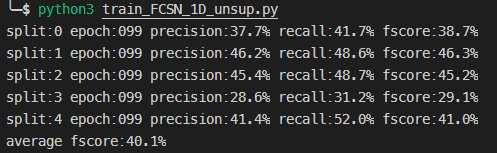
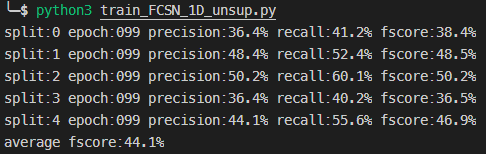
revise README.md and use key frame score as 0/1 vector

diff --git a/train_FCSN_1D_unsup.py b/train_FCSN_1D_unsup.py
@@ -13,7 +13,7 @@ import eval_tools
 # configure training record
 #writer = SummaryWriter()
 # load training and testing dataset
-train_loader_list,test_dataset_list,data_file = get_loader("datasets/fcsn_summe.h5", "1D", 5)
+train_loader_list,test_dataset_list,data_file = get_loader("datasets/fcsn_tvsum.h5", "1D", 5)
 # device use for training and testing
 device = torch.device("cuda:0" if torch.cuda.is_available() else "cpu")
 # number of epoch to train
@@ -39,11 +39,12 @@ for i in range(len(train_loader_list)):
             # zero the parameter gradients
             optimizer.zero_grad()
 
-            outputs_select_reconstruct,mask,_ = model(feature) # output shape [5,1024,320],[5,1,320]
+            outputs_reconstruct,mask,_ = model(feature) # output shape [5,1024,320],[5,1,320]
 
             # reconst. loss改成分批再做平均
             feature_select = feature*mask # [5,1024,320]
-            feature_diff_1 = torch.sum((feature_select-outputs_select_reconstruct)**2, dim=1) # [5,320]
+            outputs_reconstruct_select = outputs_reconstruct*mask # [5,1024,320]
+            feature_diff_1 = torch.sum((feature_select-outputs_reconstruct_select)**2, dim=1) # [5,320]
             feature_diff_1 = torch.sum(feature_diff_1, dim=1) # [5]
 
             mask_sum = torch.sum(mask, dim=2) # [5,1]
@@ -53,15 +54,15 @@ for i in range(len(train_loader_list)):
             
 
             # diversity loss
-            batch_size, feat_size, frames = outputs_select_reconstruct.shape
+            batch_size, feat_size, frames = outputs_reconstruct.shape
 
-            outputs_select_reconstruct_norm = torch.norm(outputs_select_reconstruct, p=2, dim=1, keepdim=True)
+            outputs_reconstruct_norm = torch.norm(outputs_reconstruct, p=2, dim=1, keepdim=True)
 
-            normalized_outputs_select_reconstruct = outputs_select_reconstruct/outputs_select_reconstruct_norm # [5,1024,320]
+            normalized_outputs_reconstruct = outputs_reconstruct/outputs_reconstruct_norm # [5,1024,320]
 
-            normalized_outputs_select_reconstruct_reshape = outputs_select_reconstruct.permute(0, 2, 1) # [5,320,1024]
+            normalized_outputs_reconstruct_reshape = normalized_outputs_reconstruct.permute(0, 2, 1) # [5,320,1024]
 
-            similarity_matrix = torch.bmm(normalized_outputs_select_reconstruct_reshape, normalized_outputs_select_reconstruct) # [5, 320, 320]
+            similarity_matrix = torch.bmm(normalized_outputs_reconstruct_reshape, normalized_outputs_reconstruct) # [5, 320, 320]
 
             mask_trans = mask.permute(0,2,1) # [5,320,1]
             mask_matrix = torch.bmm(mask_trans, mask) # [5,320,320] 
@@ -69,17 +70,23 @@ for i in range(len(train_loader_list)):
             similarity_matrix_filtered = similarity_matrix*mask_matrix # [5,320,320]
 
             diversity_loss = 0
+            acc_batch_size = 0
             for j in range(batch_size):
                 batch_similarity_matrix_filtered = similarity_matrix_filtered[j,:,:] # [320,320]
                 batch_mask = mask[j,:,:] # [1, 320]
                 if batch_mask.sum() < 2:
-                    print("select less than 2 frames")
-                    diversity_loss = 0
-                    break # only reconstruct_loss in this batch update
-                batch_diversity_loss = (batch_similarity_matrix_filtered.sum()-batch_similarity_matrix_filtered.trace())/(batch_mask.sum()*(batch_mask.sum()-1))
+                    #print("select less than 2 frames")
+                    batch_diversity_loss = 0
+                else:
+                    batch_diversity_loss = (batch_similarity_matrix_filtered.sum()-batch_similarity_matrix_filtered.trace())/(batch_mask.sum()*(batch_mask.sum()-1))
+                    acc_batch_size += 1
+
                 diversity_loss += batch_diversity_loss
 
-            diversity_loss /= batch_size
+            if acc_batch_size>0:
+                diversity_loss /= acc_batch_size
+            else:
+                diversity_loss = 0
 
             total_loss = reconstruct_loss + diversity_loss
             total_loss.backward()
@@ -91,11 +98,9 @@ for i in range(len(train_loader_list)):
             eval_res_avg = [] # for all testing video results
             for feature,label,index in test_dataset_list[i]: # index has been +1 in dataloader.py
                 feature = feature.view(1,1024,-1).to(device) # [1024,320] -> [1,1024,320]
-                pred_score = model(feature)[2].view(-1,320) # [1,2,320] -> [2,320]
                 # we only want key frame prob. -> [1]
-                pred_score = torch.softmax(pred_score, dim=0)[1] # [320]
+                pred_score = model(feature)[1].view(320) # [1,1,320] -> [320]
                 
-
                 video_name = "video_{}".format(index)
                 video_info = data_file[video_name]
                 # select key shots by video_info and pred_score
@@ -103,8 +108,8 @@ for i in range(len(train_loader_list)):
                 _, _, pred_summary = eval_tools.select_keyshots(video_info, pred_score)
                 true_summary_arr = video_info['user_summary'][()] # shape (n_users,N), summary from some users, each row is a binary vector
                 eval_res = [eval_tools.eval_metrics(pred_summary, true_summary) for true_summary in true_summary_arr] # shape [n_user,3],3 for[precision, recall, fscore]
-                #eval_res = np.mean(eval_res, axis=0).tolist()  # for tvsum
-                eval_res = np.max(eval_res, axis=0).tolist()    # for summe
+                eval_res = np.mean(eval_res, axis=0).tolist()  # for tvsum
+                #eval_res = np.max(eval_res, axis=0).tolist()    # for summe
                 eval_res_avg.append(eval_res) # [[precision1, recall1, fscore1], [precision2, recall2, fscore2]......]
                 
             eval_res_avg = np.mean(eval_res_avg, axis=0).tolist()

diff --git a/FCSN.py b/FCSN.py
@@ -248,21 +248,21 @@ class FCSN_1D_unsup(nn.Module):
         h = self.deconv2(h) # [5,2,320]
 
         h_softmax = self.softmax(h) # [5,2,320]
-        h_softmax_slice = h_softmax[:,1,:].view(-1,1,320) # [5,1,320]
-        mask = torch.bernoulli(h_softmax_slice) # [5,1,320]
+        mask = h_softmax[:,1,:].view(-1,1,320) # [5,1,320] use key frame score to be the mask
+
+        # cannot differentiate(deprecated)
+        #mask = torch.bernoulli(h_softmax_slice) # [5,1,320]
 
         # soft arg max(deprecated)
         #mask = self.soft_argmax(h); #print(h_soft_argmax) # [5,1,320]
 
-        h_select = mask * h # [5,2,320]
-        h_select_reconstruct = self.relu_reconstuct1(self.bn_reconstruct1(self.conv_reconstuct1(h_select))) # [5,1024,320]
+        h_reconstruct = self.relu_reconstuct1(self.bn_reconstruct1(self.conv_reconstuct1(h))) # [5,1024,320]
 
         # merge with input features
-        refined_input = mask * x
-        h_select_reconstruct = h_select_reconstruct + refined_input
-        h_select_reconstruct = self.relu_reconstuct2(self.bn_reconstruct2(self.conv_reconstuct2(h_select_reconstruct))) # [5,1024,320]
+        h_merge = h_reconstruct + x # [5,1024,320]
+        h_merge_reconstruct = self.relu_reconstuct2(self.bn_reconstruct2(self.conv_reconstuct2(h_merge))) # [5,1024,320]
 
-        return h_select_reconstruct, mask, h # [5,1024,320], [5,1,320], [5,2,320]
+        return h_merge_reconstruct, mask, h # [5,1024,320], [5,1,320], [5,2,320]
 
 
 class FCSN_2D_sup(nn.Module):
